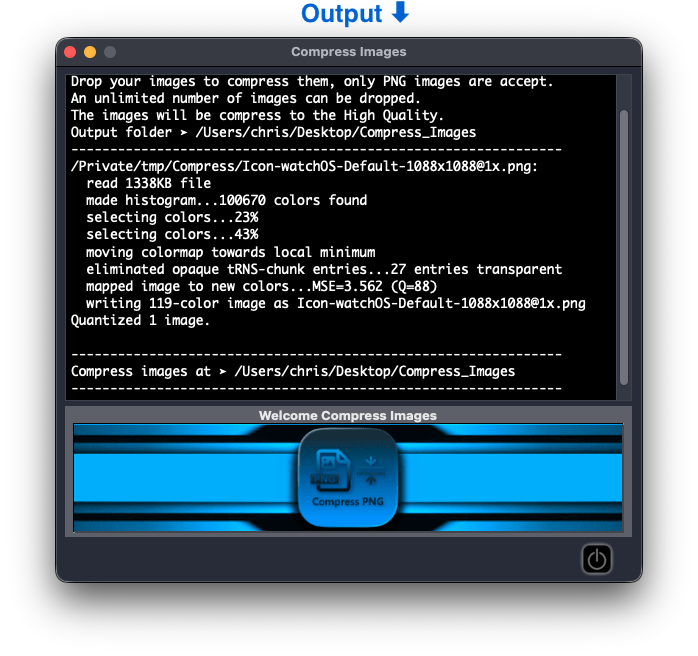
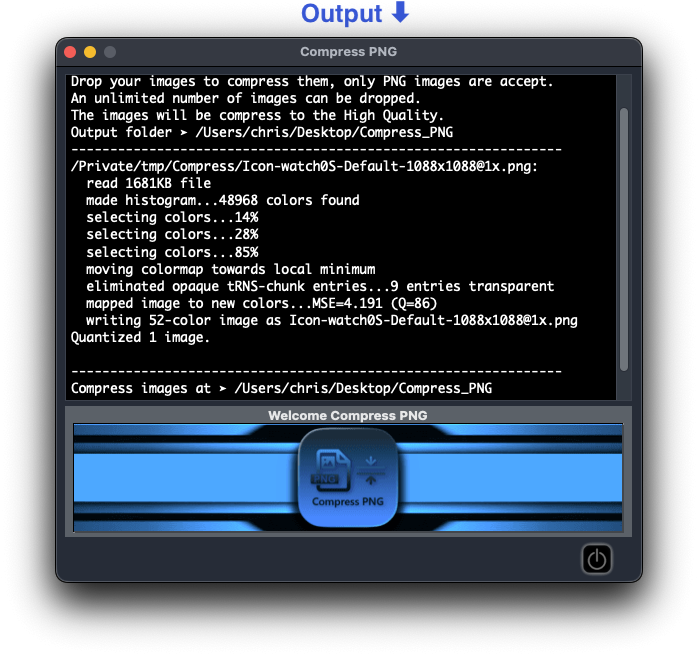
Rename app and docs to 'Compress PNG'
Rebrand project from "Compress Images" to "Compress PNG": update README and index.html titles/links/clone commands, rename executable (Compress Images → Compress PNG), update app Info.plist and UI text in nib, adjust script output path and AppleScript target, and replace screenshots/resources to match the new name.

diff --git a/index.html b/index.html
@@ -325,8 +325,8 @@ pre code, pre tt {
   </head>
   <body>
     <div class="container">
-      <div class="body-content"><h1 id="compress-images">Compress Images</h1>
-<h3 id="compress-images-is-a-free-open-source-macos-applications-to-compress-png-images-">Compress Images is a free Open source macOS Applications to compress PNG images.</h3>
+      <div class="body-content"><h1 id="compress-images">Compress PNG</h1>
+<h3 id="compress-png-is-a-free-open-source-macos-applications-to-compress-png-images-">Compress PNG is a free Open source macOS Applications to compress PNG images.</h3>
 <p><img src="Source/compress-macOS-Default-1024x1024@1x.png" alt="Icons Project" style="width:30%;"></p>
 <p>Credit: <a href="https://github.com/chris1111">chris1111</a>, <a href="https://github.com/kornelski/pngquant">pngquant</a>, <a href="https://github.com/sveinbjornt/Platypus">platypus</a></p>
 <h3 id="the-conversion-reduces-file-sizes-significantly-often-as-much-as-70-and-preserves-full-alpha-transparency-generated-images-are-compatible-with-all-web-browsers-and-operating-systems-">The conversion reduces file sizes significantly (often as much as 70%) and preserves full alpha transparency. Generated images are compatible with all web browsers and operating systems.</h3>
@@ -338,9 +338,9 @@ pre code, pre tt {
 <li>Fast mode for real-time processing/large numbers of images.</li>
 </ul>
 <p><img src="Source/2Pics.png" alt="Icons Project" style="width:75%;"></p>
-<h2 id="download-release-compress-images">Download Release ➤ <a href="https://github.com/chris1111/Compress-Images/releases/tag/V1">Compress Images</a></h2>
+<h2 id="download-release-compress-png">Download Release ➤ <a href="https://github.com/chris1111/Compress-PNG/releases/tag/V1">Compress PNG</a></h2>
 <h3 id="output-">Build App from command ⬇</h3>
-<input type="text" value="git clone https://github.com/chris1111/Compress-Images.git && cd $HOME/Compress-Images && mkdir -p 'Compress Images.app' && cp -rp './Source/Contents' 'Compress Images.app' && Open -R 'Compress Images.app'" id="myInput">
+<input type="text" value="git clone https://github.com/chris1111/Compress-PNG.git && cd $HOME/Compress-PNG && mkdir -p 'Compress PNG.app' && cp -rp './Source/Contents' 'Compress PNG.app' && Open -R 'Compress PNG.app'" id="myInput">
 <button onclick="myFunction()">Copy Command</button>
 
 <script>

diff --git a/README.md b/README.md
@@ -1,6 +1,6 @@
-# Compress Images
-[![License: MIT](https://github.com/chris1111/Compress-Images/blob/main/Source/MIT.svg)](https://github.com/chris1111/Compress-Images/blob/main/LICENSE)
-### Compress Images is a free Open source macOS Applications to compress PNG images.
+# Compress PNG
+[![License: MIT](https://github.com/chris1111/Compress-PNG/blob/main/Source/MIT.svg)](https://github.com/chris1111/Compress-PNG/blob/main/LICENSE)
+### Compress PNG is a free Open source macOS Applications to compress PNG images.
 
 <img src="Source/compress-macOS-Default-1024x1024@1x.png" alt="Icons Project" style="width:30%;">
 
@@ -16,11 +16,11 @@ Credit: [chris1111](https://github.com/chris1111), [pngquant](https://github.com
 
 <img src="Source/Pics-1.png" alt="Icons Project" style="width:40%;"><img src="Source/Pics-2.png" alt="Icons Project" style="width:40%;">
 
-## Download Release ➤ [Compress Images](https://github.com/chris1111/Compress-Images/releases/tag/V1)
+## Download Release ➤ [Compress PNG](https://github.com/chris1111/Compress-PNG/releases/tag/V1)
 
 ### Build App from command in macOS
 ```
-git clone https://github.com/chris1111/Compress-Images.git && cd $HOME/Compress-Images && mkdir -p ./"Compress Images.app" && cp -rp ./Source/Contents ./"Compress Images.app" && Open -R ./"Compress Images.app"
+git clone https://github.com/chris1111/Compress-PNG.git && cd $HOME/Compress-PNG && mkdir -p ./"Compress PNG.app" && cp -rp ./Source/Contents ./"Compress PNG.app" && Open -R ./"Compress PNG.app"
 ```
 
 <img src="Source/Screenshot.png" alt="Icons Project" style="width:50%;"><img src="Source/Screenshot-Output.png" alt="Icons Project" style="width:50%;">
